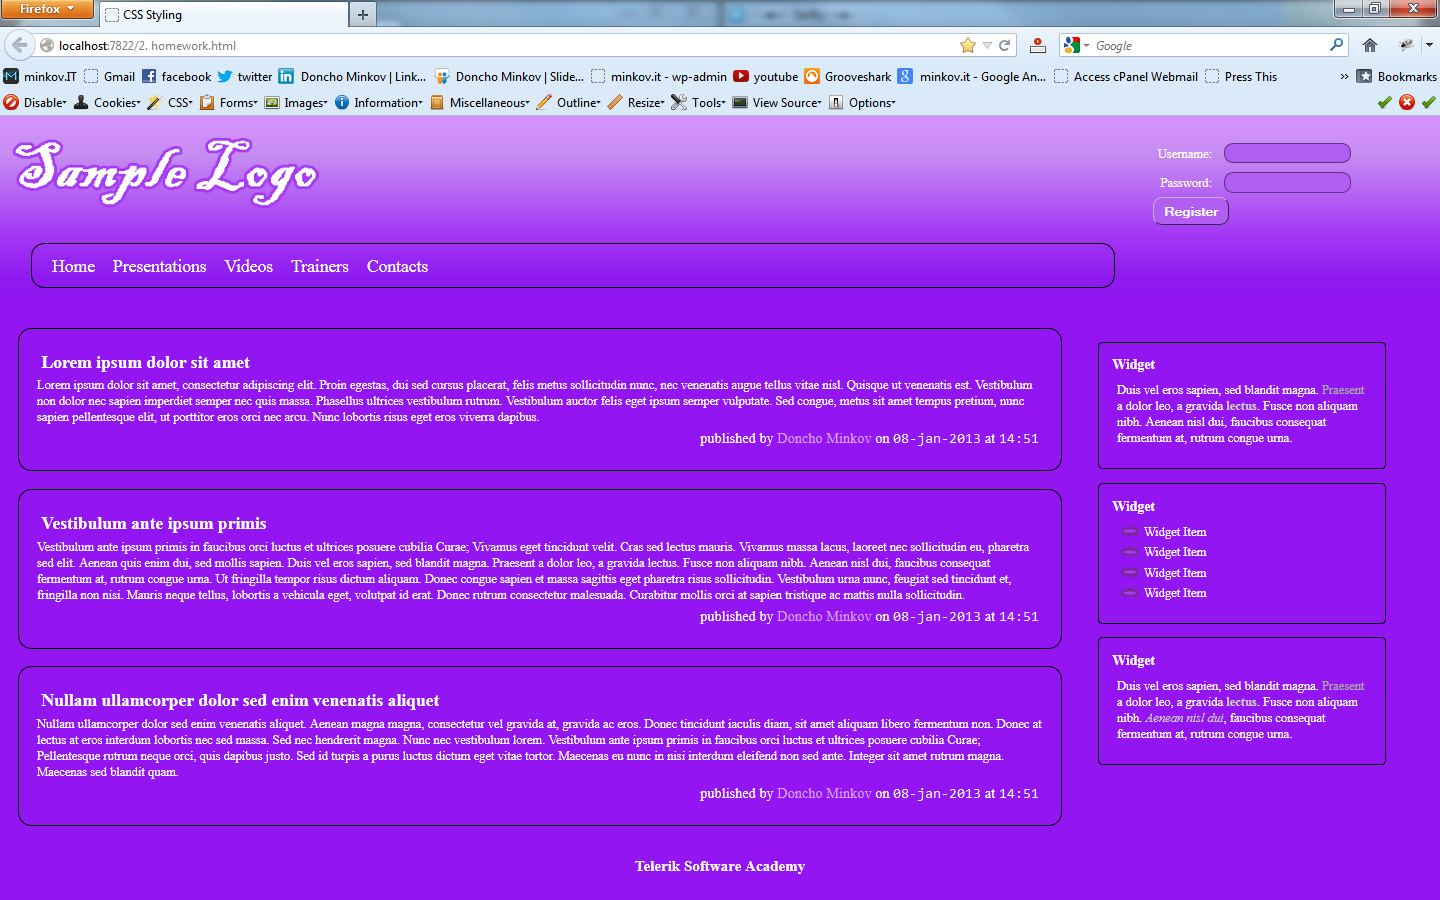
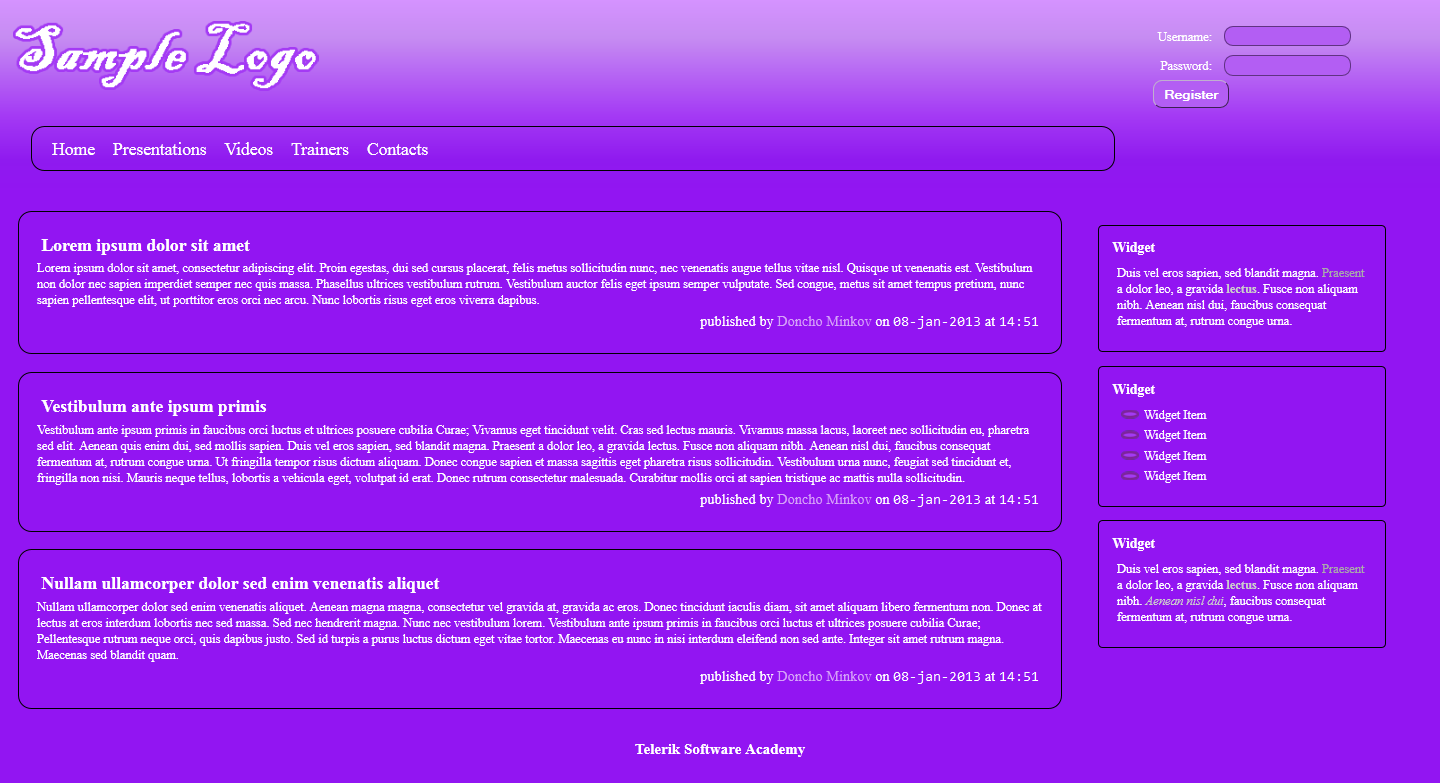
1st task less started

diff --git a/CSS-Preprocessors-LESS/Task1/styles.less b/CSS-Preprocessors-LESS/Task1/styles.less
@@ -1,0 +1,72 @@
+body {
+    font: 14px Arial;
+    color: white;
+    background: #d593ff; /* Old browsers */
+    /* IE9 SVG, needs conditional override of 'filter' to 'none' */
[1 lines of base64/hex data omitted]
+    background: -moz-linear-gradient(top, #d593ff 0%, #c68cf2 5%, #a338f4 15%, #8f19ef 21%, #9215f2 24%, #9215f2 100%); /* FF3.6+ */
+    background: -webkit-gradient(linear, left top, left bottom, color-stop(0%,#d593ff), color-stop(5%,#c68cf2), color-stop(15%,#a338f4), color-stop(21%,#8f19ef), color-stop(24%,#9215f2), color-stop(100%,#9215f2)); /* Chrome,Safari4+ */
+    background: -webkit-linear-gradient(top, #d593ff 0%,#c68cf2 5%,#a338f4 15%,#8f19ef 21%,#9215f2 24%,#9215f2 100%); /* Chrome10+,Safari5.1+ */
+    background: -o-linear-gradient(top, #d593ff 0%,#c68cf2 5%,#a338f4 15%,#8f19ef 21%,#9215f2 24%,#9215f2 100%); /* Opera 11.10+ */
+    background: -ms-linear-gradient(top, #d593ff 0%,#c68cf2 5%,#a338f4 15%,#8f19ef 21%,#9215f2 24%,#9215f2 100%); /* IE10+ */
+    background: linear-gradient(to bottom, #d593ff 0%,#c68cf2 5%,#a338f4 15%,#8f19ef 21%,#9215f2 24%,#9215f2 100%); /* W3C */
+    filter: progid:DXImageTransform.Microsoft.gradient( startColorstr='#d593ff', endColorstr='#9215f2',GradientType=0 ); /* IE6-8 */
+}
+
+#header-container {
+    display: block;
+}
+
+#logo-container {
+    display: inline-block;
+}
+
+#reg-form-container {
+    display: inline-block;
+    position: absolute;
+    top: 30px;
+    right: 100px;
+    /*I am not sure at all if absolute position is the most suitable for this but I couldn't make it smarter in the moment. Please if there is a wiser way to do that trick write it in my HW feedback*/
+    input {
+        background: #B35EF3;
+        border: 1px solid #603382;
+        border-radius: 15px;
+        margin: 5px 10px;
+        width: 125px;
+    }
+
+    button {
+        color: white;
+        background: #B35EF3;
+        padding: 5px 10px;
+        border-radius: 10px;
+        border-color: #C0AFCE #3C2051 #3C2051 #C0AFCE;
+    }
+}
+
+.nav-list {
+    list-style-type: none;
+
+    a {
+        color: white;
+        text-decoration: none;
+        font: 1.4em normal Arial;
+        padding: 0 10px 0 10px;
+    }
+}
+
+#main-nav-list {
+    border: 1px solid black;
+    border-radius: 25px;
+    padding: 10px;
+
+    .sub-nav-list {
+        position: absolute;
+        display: none;
+        background-color: rgba(179, 94, 243, 0.9);
+    }
+
+    li {
+        display: inline-block;
+    }
+}

diff --git a/CSS-Preprocessors-LESS/Task1/styles.css b/CSS-Preprocessors-LESS/Task1/styles.css
@@ -1,0 +1,72 @@
+body {
+  font: 14px Arial;
+  color: white;
+  background: #d593ff;
+  /* Old browsers */
+  /* IE9 SVG, needs conditional override of 'filter' to 'none' */
[1 lines of base64/hex data omitted]
+  background: -moz-linear-gradient(top, #d593ff 0%, #c68cf2 5%, #a338f4 15%, #8f19ef 21%, #9215f2 24%, #9215f2 100%);
+  /* FF3.6+ */
+  background: -webkit-gradient(linear, left top, left bottom, color-stop(0%, #d593ff), color-stop(5%, #c68cf2), color-stop(15%, #a338f4), color-stop(21%, #8f19ef), color-stop(24%, #9215f2), color-stop(100%, #9215f2));
+  /* Chrome,Safari4+ */
+  background: -webkit-linear-gradient(top, #d593ff 0%, #c68cf2 5%, #a338f4 15%, #8f19ef 21%, #9215f2 24%, #9215f2 100%);
+  /* Chrome10+,Safari5.1+ */
+  background: -o-linear-gradient(top, #d593ff 0%, #c68cf2 5%, #a338f4 15%, #8f19ef 21%, #9215f2 24%, #9215f2 100%);
+  /* Opera 11.10+ */
+  background: -ms-linear-gradient(top, #d593ff 0%, #c68cf2 5%, #a338f4 15%, #8f19ef 21%, #9215f2 24%, #9215f2 100%);
+  /* IE10+ */
+  background: linear-gradient(to bottom, #d593ff 0%, #c68cf2 5%, #a338f4 15%, #8f19ef 21%, #9215f2 24%, #9215f2 100%);
+  /* W3C */
+  filter: progid:DXImageTransform.Microsoft.gradient(startColorstr='#d593ff', endColorstr='#9215f2', GradientType=0);
+  /* IE6-8 */
+}
+#header-container {
+  display: block;
+}
+#logo-container {
+  display: inline-block;
+}
+#reg-form-container {
+  display: inline-block;
+  position: absolute;
+  top: 30px;
+  right: 100px;
+  /*I am not sure at all if absolute position is the most suitable for this but I couldn't make it smarter in the moment. Please if there is a wiser way to do that trick write it in my HW feedback*/
+}
+#reg-form-container input {
+  background: #B35EF3;
+  border: 1px solid #603382;
+  border-radius: 15px;
+  margin: 5px 10px;
+  width: 125px;
+}
+#reg-form-container button {
+  color: white;
+  background: #B35EF3;
+  padding: 5px 10px;
+  border-radius: 10px;
+  border-color: #C0AFCE #3C2051 #3C2051 #C0AFCE;
+}
+.nav-list {
+  list-style-type: none;
+}
+.nav-list a {
+  color: white;
+  text-decoration: none;
+  font: 1.4em normal Arial;
+  padding: 0 10px 0 10px;
+}
+#main-nav-list {
+  border: 1px solid black;
+  border-radius: 25px;
+  padding: 10px;
+}
+#main-nav-list .sub-nav-list {
+  position: absolute;
+  display: none;
+  background-color: rgba(179, 94, 243, 0.9);
+}
+#main-nav-list li {
+  display: inline-block;
+}
+/*# sourceMappingURL=styles.css.map */

diff --git a/CSS-Preprocessors-LESS/Task1/homework.html b/CSS-Preprocessors-LESS/Task1/homework.html
@@ -2,6 +2,7 @@
 <html xmlns="http://www.w3.org/1999/xhtml">
 <head>
     <title>CSS Styling </title>
+    <link href="styles.css" rel="stylesheet" />
 </head>
 <body>
     <header>
@@ -17,16 +18,16 @@
                 <form>
                     <div>
                         <label for="tb-username">Username: </label>
-                        <input type="text" id="tb-username" name="tb-username"/><br />
+                        <input type="text" id="tb-username" name="tb-username" /><br />
                         <label for="tb-password">Password: </label>
-                        <input type="password" id="tb-password" name="tb-password"/>
+                        <input type="password" id="tb-password" name="tb-password" />
                     </div>
                     <button id="btn-register">Register</button>
                 </form>
             </div>
         </div>
         <nav>
-            <ul id="main-nav-list"  class="nav-list">
+            <ul id="main-nav-list" class="nav-list">
                 <li>
                     <a href="#">Home</a>
                 </li>
